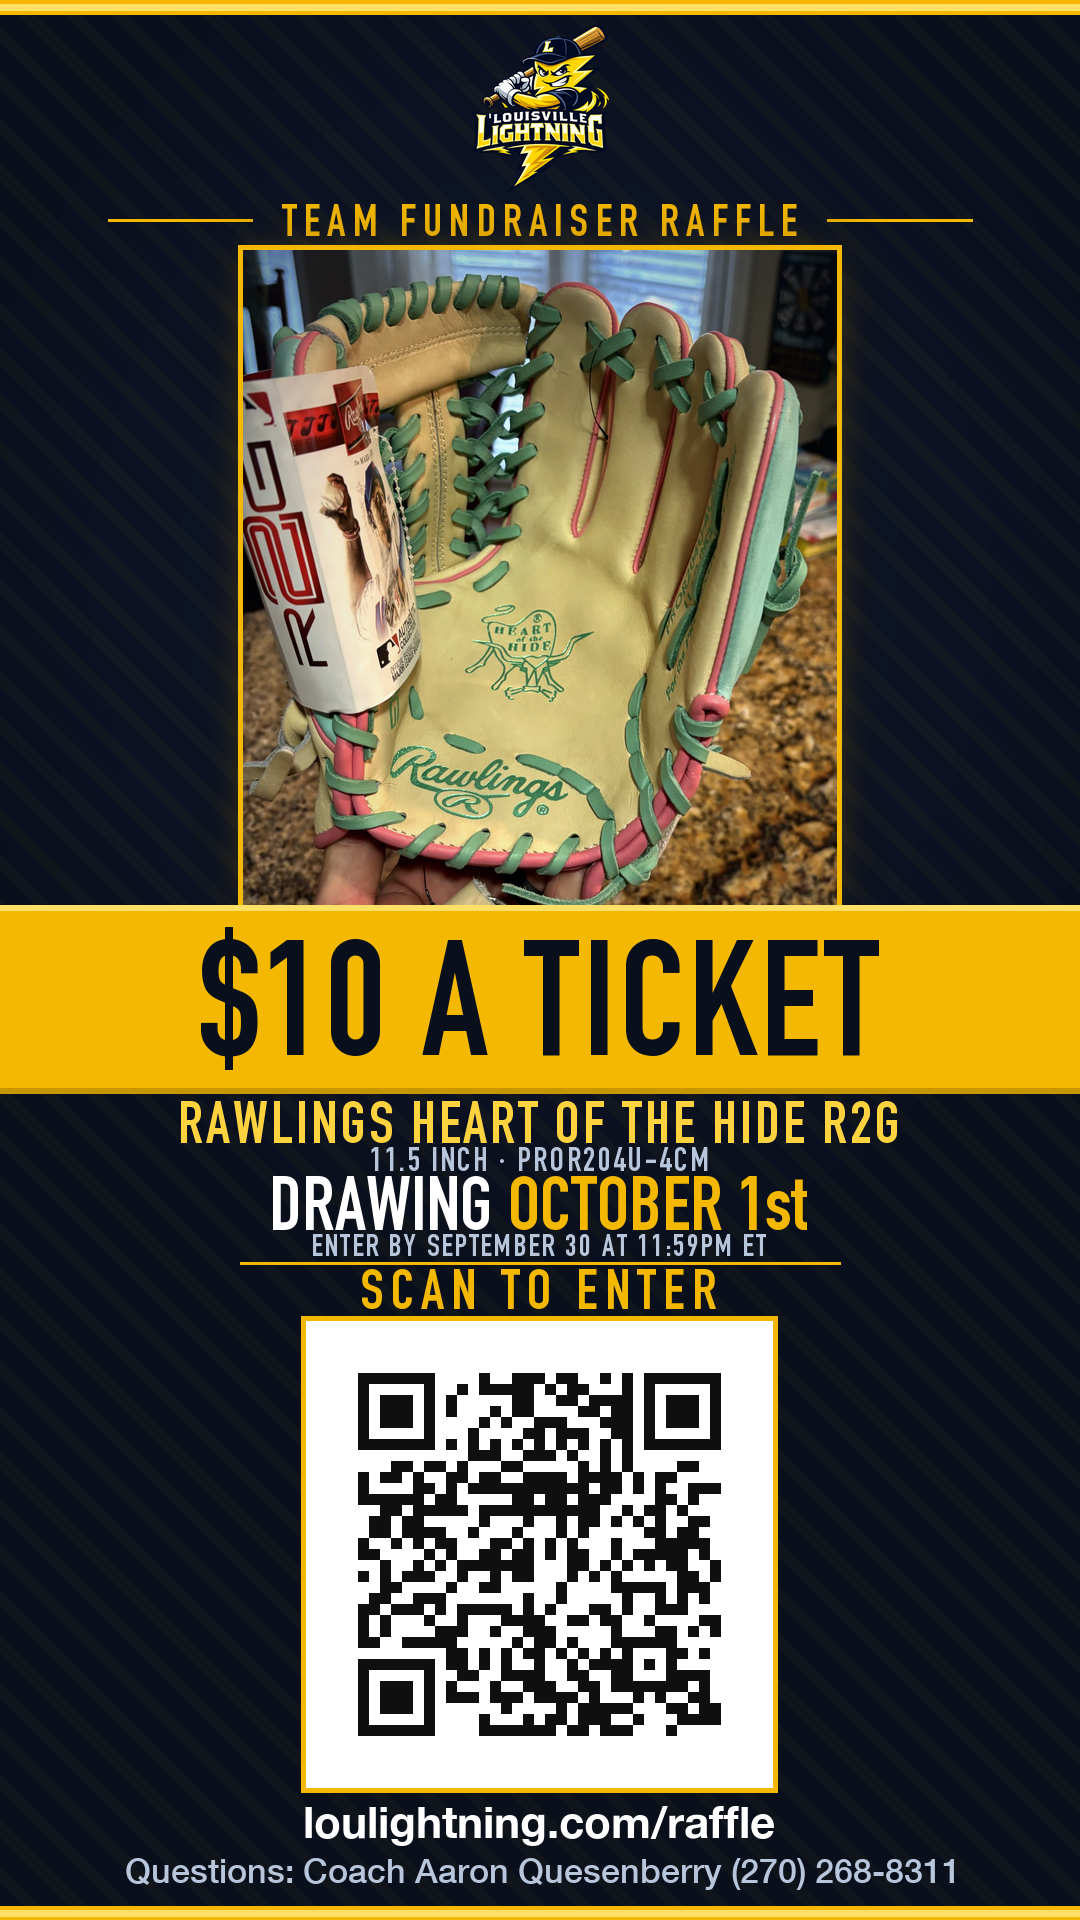
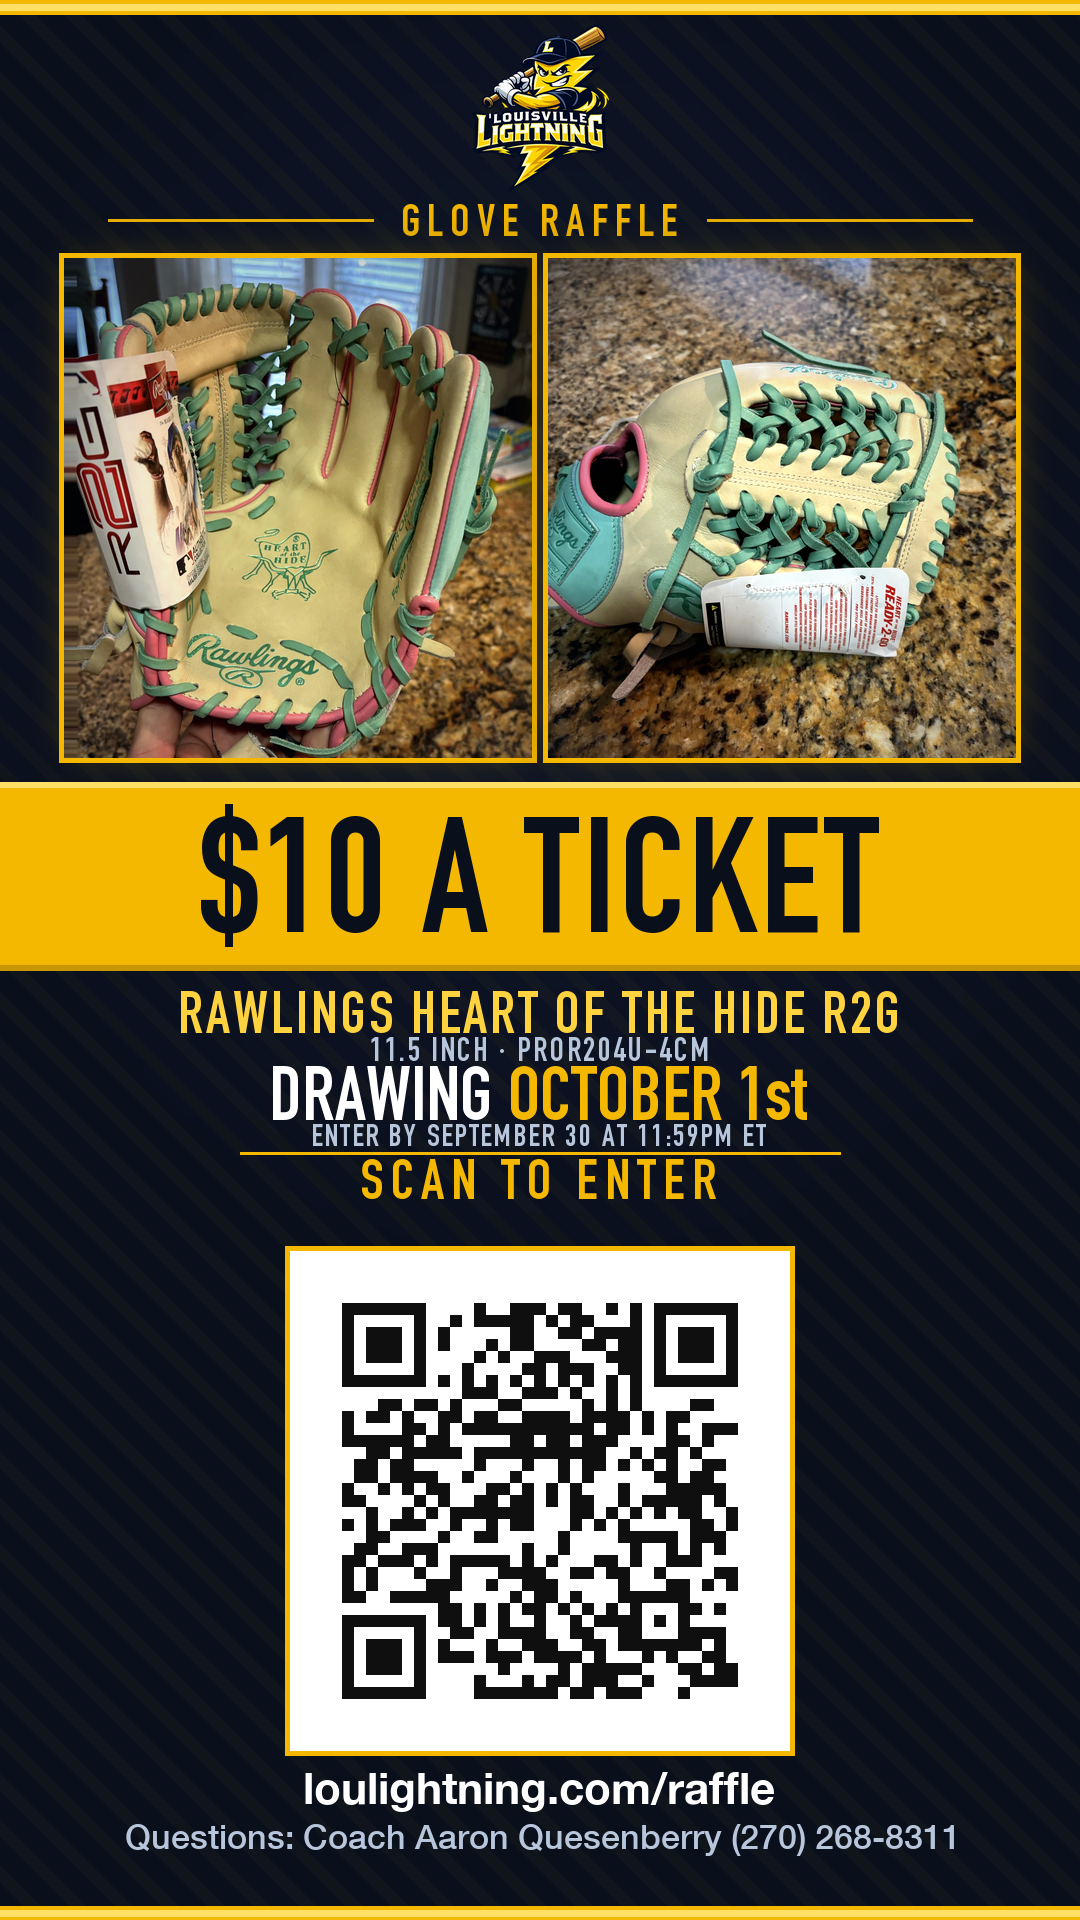
Put both glove photos on the flyer
Brandon asked for a simple flyer with the pictures we actually have,
and there are two: the palm and the web. The old one showed one.

The single hero used to ride UNDER the price band, which is why the
band existed at that height. Two panels sitting clear of it is simpler
to look at and simpler to reason about, so PANEL_COVER is gone and the
whole stack below moved up 110px. The QR took the reclaimed space and
went from 363px to 396px of code.

Panels are 500 tall, not 620. At 620 the crop is width-constrained by
the palm photo, whose glove is nearly square, and the web glove, which
is wide and short, floated at under half its panel height next to a
neighbour that filled the frame. Two photos side by side have to read
as a pair.

Two framing bugs the gate and my own eyes caught, in that order:

The crop window is wider than the space left of either glove in its
source, so clamping it shoved the palm 19px from the panel edge, under
the 24px floor, and the gate refused to ship. Padding the overhang
fixes it; what to pad WITH took two tries. Flat navy left a dark strip
between the gold frame and the photo that read as a printing error.
Edge replication fixed that but smeared 72px of the web photo's kitchen
blinds into a striped band. So: replicate where the subject is whole,
and clamp where the source already cuts it off, which is honest about
what the photo is.

Also fixed a verifier that under-reported. The clearance line printed
[…]

diff --git a/scripts/build_raffle_flyer.py b/scripts/build_raffle_flyer.py
@@ -33,6 +33,7 @@ The script refuses to write a flyer it cannot verify:
 
 from __future__ import annotations
 
+import math
 import re
 import sys
 from dataclasses import dataclass
@@ -70,19 +71,32 @@ MARGIN = 64  # only full-bleed bands and rules may cross this
 # ------------------------------------------------------------------
 LOGO_TOP, LOGO_H = 24, 168
 EYEBROW_TOP, EYEBROW_H = 204, 32
-PANEL_X, PANEL_Y, PANEL_W = 243, 250, 594
-BAND_TOP, BAND_H = 905, 188
-PANEL_COVER = 100          # strip of the photo panel that the band hides
+
+# Two photos, side by side, edge to edge between the margins. Brandon asked
+# for "multiple pictures that we have" and there are exactly two: the palm and
+# the web. A single hero used to ride UNDER the price band, which hid the
+# wrist and the hang tag; two panels sitting clear of the band is both simpler
+# to reason about and simpler to look at, so the band no longer overlaps
+# anything and PANEL_COVER is gone.
+# The panels are 500 tall, not 620. Taller panels are width-constrained by the
+# PALM photo, whose glove is nearly square, and that left the WEB glove, which
+# is wide and short, floating in the middle of its frame at under half the
+# panel height while its neighbour filled the frame edge to edge. Two photos
+# side by side have to read as a pair.
+PANEL_Y, PANEL_W, PANEL_H, PANEL_GAP = 258, 468, 500, 16
+PANEL_X_LEFT = MARGIN                              # 64
+PANEL_X_RIGHT = MARGIN + PANEL_W + PANEL_GAP       # 548, ends flush at 1016
+BAND_TOP, BAND_H = 782, 188
 GLOVE_PAD = 24             # minimum clear canvas px around the glove
-PRIZE_TOP, PRIZE_H = 1101, 42
-SPEC_TOP, SPEC_H = 1147, 24   # size + model, read off the thumb stamp
-DRAW_TOP, DRAW_H = 1176, 54
-DEADLINE_TOP, DEADLINE_H = 1234, 22   # entries close date, under the drawing
-HAIRLINE_TOP = 1262
-SCAN_TOP, SCAN_H = 1269, 40
-QR_TOP = 1316
-URL_TOP, URL_H = 1806, 40
-CONTACT_TOP, CONTACT_H = 1858, 32
+PRIZE_TOP, PRIZE_H = 991, 42
+SPEC_TOP, SPEC_H = 1037, 24   # size + model, read off the thumb stamp
+DRAW_TOP, DRAW_H = 1066, 54
+DEADLINE_TOP, DEADLINE_H = 1124, 22   # entries close date, under the drawing
+HAIRLINE_TOP = 1152
+SCAN_TOP, SCAN_H = 1159, 40
+QR_TOP = 1246
+URL_TOP, URL_H = 1772, 40
+CONTACT_TOP, CONTACT_H = 1824, 32
 
 # QR sizing, chosen by measurement not by eye. The source code is 33
 # modules. Rendering at a whole number of pixels per module keeps every
@@ -92,13 +106,25 @@ CONTACT_TOP, CONTACT_H = 1858, 32
 # wide decoded on every resampling filter tried, where the earlier 330px
 # code lost 540 and 480 outright. The gate at the bottom of this file
 # re-runs that sweep on every build.
-QR_MODULES, QR_PX_PER_MODULE, QR_QUIET, QR_RING = 33, 11, 52, 5
+QR_MODULES, QR_PX_PER_MODULE, QR_QUIET, QR_RING = 33, 12, 52, 5
 
-# The glove leather in glove-palm.jpg, read off a coordinate grid laid
-# over the source at 100px intervals. Fingertips y=380, heel y=1700,
-# pinky side x=55, thumb side x=1240. The Ready-2-Go hang tag hangs off
-# the left at roughly x 25..145, and is deliberately kept in frame.
-GLOVE_BOX = (55, 380, 1240, 1700)
+# Where the leather actually sits in each source photo, read off a coordinate
+# grid laid over the 1600x2133 originals. The crop is solved from these, so a
+# new photo needs its box measured, never guessed.
+#
+#   palm: fingertips y=380, heel y=1700, pinky x=55, thumb x=1240. The
+#         Ready-2-Go hang tag hangs off the left at x 25..145 and is kept.
+#   web:  the glove runs off the LEFT edge of its frame, so x0 is 0 by
+#         necessity; top lace loop y=590, tag bottom y=1670, right edge
+#         x=1265. GLOVE_PAD on the left is therefore unreachable and the
+#         gate is told so explicitly rather than being loosened for both.
+GLOVE_BOXES = {
+    "glove-palm.jpg": (55, 380, 1240, 1700),
+    "glove-web.jpg": (0, 590, 1265, 1670),
+}
+# Sides the gate must not demand clearance on, because the subject is cut off
+# in the source itself. Naming them here keeps the check strict everywhere else.
+GLOVE_BLEED = {"glove-web.jpg": {"left"}}
 
 
 # ==================================================================
@@ -114,7 +140,7 @@ class RaffleFacts:
     url_full: str
     url_display: str
     qr_path: Path
-    photo_path: Path
+    photo_paths: tuple[Path, ...]
     contact_role: str
     contact_name: str
     contact_phone: str
@@ -156,7 +182,9 @@ def read_facts() -> RaffleFacts:
                       "PRICE_PER_TICKET_CENTS"))
     url_full = _grab(r"export const RAFFLE_URL\s*=\s*'([^']+)'", src, "RAFFLE_URL")
     qr_rel = _grab(r"export const RAFFLE_QR_IMAGE\s*=\s*'([^']+)'", src, "RAFFLE_QR_IMAGE")
-    photo_rel = _grab(r"src:\s*'([^']+)'", prize, "PRIZE.photos[0].src")
+    photo_rels = re.findall(r"src:\s*'([^']+)'", prize)
+    if len(photo_rels) < 2:
+        sys.exit(f"FATAL: PRIZE.photos has {len(photo_rels)} entries, the flyer needs 2")
 
     return RaffleFacts(
         prize_name=_grab(r"name:\s*'([^']+)'", prize, "PRIZE.name"),
@@ -174,7 +202,7 @@ def read_facts() -> RaffleFacts:
         url_full=url_full,
         url_display=re.sub(r"^https?://", "", url_full).rstrip("/"),
         qr_path=PUBLIC / qr_rel.lstrip("/"),
-        photo_path=PUBLIC / photo_rel.lstrip("/"),
+        photo_paths=tuple(PUBLIC / r.lstrip("/") for r in photo_rels[:2]),
         contact_role=_grab(r"role:\s*'([^']+)'", contact, "RAFFLE_CONTACT.role"),
         contact_name=_grab(r"name:\s*'([^']+)'", contact, "RAFFLE_CONTACT.name"),
         contact_phone=_grab(r"phone:\s*'([^']+)'", contact, "RAFFLE_CONTACT.phone"),
@@ -362,41 +390,78 @@ def vignette(img: Image.Image, strength: float = 0.62) -> Image.Image:
     return Image.composite(img.convert("RGB"), shade, mask).convert("RGBA")
 
 
-def hero_crop(photo: Image.Image, panel_w: int, panel_h: int,
-              visible_h: int) -> tuple[Image.Image, tuple[float, float, float, float]]:
+def panel_crop(path: Path, panel_w: int, panel_h: int
+               ) -> tuple[Image.Image, tuple[float, float, float, float]]:
     """Pick the source rectangle rather than squashing the photo.
 
-    The rectangle is solved from GLOVE_BOX so that the whole glove lands
-    inside the VISIBLE part of the panel with at least GLOVE_PAD of clear
-    canvas on every side. Whatever falls below the glove (the wrist and
-    the Rawlings hang tag) drops into the strip the price band covers.
+    Solved from that photo's measured GLOVE_BOXES entry so the whole glove
+    lands inside the panel with at least GLOVE_PAD of clear canvas on every
+    side it is not already cut off on.
 
-    Returns the resized crop and the glove's rectangle in panel space so
-    the caller can assert the framing instead of trusting it.
+    Returns the resized crop and the glove's rectangle in panel space, so the
+    caller can assert the framing instead of trusting it.
     """
-    gx0, gy0, gx1, gy1 = GLOVE_BOX
+    photo = Image.open(path).convert("RGB")
+    gx0, gy0, gx1, gy1 = GLOVE_BOXES[path.name]
     gw, gh = gx1 - gx0, gy1 - gy0
-    scale = min((panel_w - 2 * GLOVE_PAD) / gw, (visible_h - 2 * GLOVE_PAD) / gh)
+    scale = min((panel_w - 2 * GLOVE_PAD) / gw, (panel_h - 2 * GLOVE_PAD) / gh)
 
     win_w, win_h = panel_w / scale, panel_h / scale
-    vis_win_h = visible_h / scale
+    left = (gx0 + gx1) / 2 - win_w / 2
+    top = (gy0 + gy1) / 2 - win_h / 2
 
-    left = min(max((gx0 + gx1) / 2 - win_w / 2, 0), photo.width - win_w)
-    top = min(max(gy0 - (vis_win_h - gh) / 2, 0), photo.height - win_h)
+    # On a side where the SUBJECT already runs off the source frame, clamp the
+    # window to the photo instead of inventing pixels. Replicating 72px of the
+    # web photo's left edge stretched the kitchen blinds into a striped smear
+    # that read as a rendering fault; letting the glove run to the panel edge
+    # on that side reads as a deliberate crop, which is what it is.
+    bleeds = GLOVE_BLEED.get(path.name, set())
+    if "left" in bleeds:
+        left = max(left, 0.0)
+    if "right" in bleeds:
+        left = min(left, photo.width - win_w)
+    if "top" in bleeds:
+        top = max(top, 0.0)
+    if "bottom" in bleeds:
+        top = min(top, photo.height - win_h)
 
-    crop = photo.crop((round(left), round(top), round(left + win_w), round(top + win_h)))
-    crop = crop.resize((panel_w, panel_h), Image.LANCZOS)
-    glove_on_panel = ((gx0 - left) * scale, (gy0 - top) * scale,
-                      (gx1 - left) * scale, (gy1 - top) * scale)
-    return crop, glove_on_panel
+    # The window is deliberately NOT clamped to the source. Both gloves sit
+    # left of centre in their frames, so a clamped window shoves the glove
+    # against the panel edge: the palm landed 19px from it, under the 24px
+    # floor, and the gate refused to ship. Loosening GLOVE_PAD would have
+    # hidden that rather than fixed it.
+    #
+    # What fills the overhang matters. Flat navy left a visible dark strip
+    # between the gold frame and the photo that read as a printing error, so
+    # the overhang replicates the outermost row and column of real pixels
+    # instead. At the few px involved it is indistinguishable from the photo
+    # continuing.
+    import numpy as np
+
+    l0, t0 = int(math.floor(left)), int(math.floor(top))
+    l1, t1 = l0 + round(win_w), t0 + round(win_h)
+    vx0, vy0 = max(l0, 0), max(t0, 0)
+    vx1, vy1 = min(l1, photo.width), min(t1, photo.height)
+    if vx0 >= vx1 or vy0 >= vy1:
+        sys.exit(f"FATAL: {path.name} crop window falls entirely off the photo")
+
+    arr = np.asarray(photo.crop((vx0, vy0, vx1, vy1)))
+    arr = np.pad(arr, ((vy0 - t0, t1 - vy1), (vx0 - l0, l1 - vx1), (0, 0)), mode="edge")
+    win = Image.fromarray(arr)
+    left, top = float(l0), float(t0)
+
+    crop = win.resize((panel_w, panel_h), Image.LANCZOS)
+    on_panel = ((gx0 - left) * scale, (gy0 - top) * scale,
+                (gx1 - left) * scale, (gy1 - top) * scale)
+    return crop, on_panel
 
 
 # ==================================================================
 # 5. the flyer
 # ==================================================================
-def build() -> tuple[RaffleFacts, list[str], tuple[float, float, float, float]]:
+def build() -> tuple[RaffleFacts, list[str], dict[str, tuple[float, float, float, float]]]:
     facts = read_facts()
-    for p in (facts.qr_path, facts.photo_path, LOGO):
+    for p in (facts.qr_path, *facts.photo_paths, LOGO):
         if not p.exists():
             sys.exit(f"FATAL: missing asset {p}")
 
@@ -417,7 +482,7 @@ def build() -> tuple[RaffleFacts, list[str], tuple[float, float, float, float]]:
           center_x=W // 2, top=LOGO_TOP)
 
     # ---------- eyebrow, with rules running out to the margins ----------
-    eyebrow = fit_line(s("TEAM FUNDRAISER RAFFLE"), DISPLAY, GOLD_500,
+    eyebrow = fit_line(s("GLOVE RAFFLE"), DISPLAY, GOLD_500,
                        max_w=540, max_h=EYEBROW_H, tracking_ratio=0.16, start=60)
     eb = place(canvas, eyebrow, "eyebrow", center_x=W // 2, top=EYEBROW_TOP)
     ed = ImageDraw.Draw(canvas)
@@ -425,21 +490,22 @@ def build() -> tuple[RaffleFacts, list[str], tuple[float, float, float, float]]:
     for x0, x1 in ((MARGIN + 44, eb[0] - 30), (eb[2] + 30, W - MARGIN - 44)):
         ed.rectangle([x0, rule_y - 1, x1, rule_y + 1], fill=GOLD_500 + (130,))
 
-    # ---------- hero photo ----------
-    visible_h = BAND_TOP - PANEL_Y
-    panel_h = visible_h + PANEL_COVER
-    photo = Image.open(facts.photo_path).convert("RGB")
-    hero, glove_on_panel = hero_crop(photo, PANEL_W, panel_h, visible_h)
-    gold_glow(canvas, (PANEL_X, PANEL_Y, PANEL_X + PANEL_W, BAND_TOP))
-    place(canvas, vignette(grade(hero)), "hero-photo", left=PANEL_X, top=PANEL_Y)
-    ImageDraw.Draw(canvas).rectangle(
-        [PANEL_X - 5, PANEL_Y - 5, PANEL_X + PANEL_W + 4, PANEL_Y + panel_h + 4],
-        outline=GOLD_500 + (255,), width=5)
+    # ---------- the two photos ----------
+    gloves: dict[str, tuple[float, float, float, float]] = {}
+    for path, x, label in ((facts.photo_paths[0], PANEL_X_LEFT, "photo-left"),
+                           (facts.photo_paths[1], PANEL_X_RIGHT, "photo-right")):
+        crop, on_panel = panel_crop(path, PANEL_W, PANEL_H)
+        gloves[path.name] = on_panel
+        gold_glow(canvas, (x, PANEL_Y, x + PANEL_W, PANEL_Y + PANEL_H))
+        place(canvas, vignette(grade(crop)), label, left=x, top=PANEL_Y)
+        ImageDraw.Draw(canvas).rectangle(
+            [x - 5, PANEL_Y - 5, x + PANEL_W + 4, PANEL_Y + PANEL_H + 4],
+            outline=GOLD_500 + (255,), width=5)
 
     # ---------- price band ----------
-    # Full bleed, opaque gold, riding over the bottom of the photo. Navy on
-    # solid gold means the loudest line on the flyer never has to fight the
-    # photo for legibility.
+    # Full bleed, opaque gold, sitting clear below the photos. Navy on solid
+    # gold means the loudest line on the flyer never has to fight anything for
+    # legibility.
     bd = ImageDraw.Draw(canvas)
     bd.rectangle([0, BAND_TOP, W, BAND_TOP + BAND_H], fill=GOLD_500 + (255,))
     bd.rectangle([0, BAND_TOP, W, BAND_TOP + 5], fill=GOLD_300 + (255,))
@@ -518,14 +584,14 @@ def build() -> tuple[RaffleFacts, list[str], tuple[float, float, float, float]]:
 
     OUT.parent.mkdir(parents=True, exist_ok=True)
     canvas.convert("RGB").save(OUT, "PNG", optimize=True)
-    return facts, strings, glove_on_panel
+    return facts, strings, gloves
 
 
 # ==================================================================
 # 6. verification. None of this is optional.
 # ==================================================================
 def verify(facts: RaffleFacts, strings: list[str],
-           glove_on_panel: tuple[float, float, float, float]) -> None:
+           gloves: dict[str, tuple[float, float, float, float]]) -> None:
     failures: list[str] = []
 
     for text in strings:
@@ -539,20 +605,34 @@ def verify(facts: RaffleFacts, strings: list[str],
         if t < 20 or b > H - 20:
             failures.append(f"{label} breaks the top or bottom margin: y {t}..{b}")
 
-    blocks = [p for p in PLACED if p[0] != "hero-photo"]
+    blocks = [p for p in PLACED if not p[0].startswith("photo-")]
     for i, a in enumerate(blocks):
         for b in blocks[i + 1:]:
             if a[1] < b[3] and b[1] < a[3] and a[2] < b[4] and b[2] < a[4]:
                 failures.append(f"{a[0]} overlaps {b[0]}")
 
-    # the glove must be whole, and inside the part of the panel you can see
-    visible_h = BAND_TOP - PANEL_Y
-    gl, gt, gr, gb = glove_on_panel
-    pads = {"left": gl, "top": gt, "right": PANEL_W - gr, "bottom": visible_h - gb}
-    for side, pad in pads.items():
-        if pad < GLOVE_PAD - 1:
-            failures.append(f"glove is only {pad:.0f}px from the {side} of the "
-                            f"visible panel, wanted at least {GLOVE_PAD}px")
+    # Each glove must be whole and clear of its panel edges, except on a side
+    # the source photo itself already cuts off.
+    if set(gloves) != {p.name for p in facts.photo_paths}:
+        failures.append(f"framed {sorted(gloves)}, expected "
+                        f"{sorted(p.name for p in facts.photo_paths)}")
+    all_pads: dict[str, dict[str, float]] = {}
+    for name, (gl, gt, gr, gb) in gloves.items():
+        bleeds = GLOVE_BLEED.get(name, set())
+        pads = {"left": gl, "top": gt, "right": PANEL_W - gr, "bottom": PANEL_H - gb}
+        all_pads[name] = pads
+        for side, pad in pads.items():
+            if side in bleeds:
+                continue
+            if pad < GLOVE_PAD - 1:
+                failures.append(f"{name}: glove is only {pad:.0f}px from the {side} "
+                                f"of its panel, wanted at least {GLOVE_PAD}px")
+
+    # The two panels must not collide and must sit clear above the price band.
+    if PANEL_X_RIGHT < PANEL_X_LEFT + PANEL_W:
+        failures.append("the two photo panels overlap")
+    if PANEL_Y + PANEL_H + 5 > BAND_TOP:
+        failures.append("the photo panels run into the price band")
 
     import cv2  # late, so a missing cv2 cannot hide behind an earlier error
     import numpy as np
@@ -607,8 +687,13 @@ def verify(facts: RaffleFacts, strings: list[str],
     print("PLACEMENT")
     for label, l, t, r, b in PLACED:
         print(f"  {label:12} x {l:4}..{r:4}   y {t:4}..{b:4}   {r - l:4} x {b - t:4}")
-    print(f"  glove clear of the visible panel edges by: "
-          + ", ".join(f"{k} {v:.0f}px" for k, v in pads.items()))
+    print("  each glove's clearance from its own panel edges:")
+    for name, pads_ in all_pads.items():
+        bleeds = GLOVE_BLEED.get(name, set())
+        shown = ", ".join(
+            f"{k} {v:.0f}px" + (" (cut off in source)" if k in bleeds else "")
+            for k, v in pads_.items())
+        print(f"    {name:16} {shown}")
     print("-" * 64)
     print(f"QR DECODED BACK OUT OF THE FINISHED PNG: {decoded!r}")
     print(f"  and still decodes after downscaling: {len(survived)}/12 "
